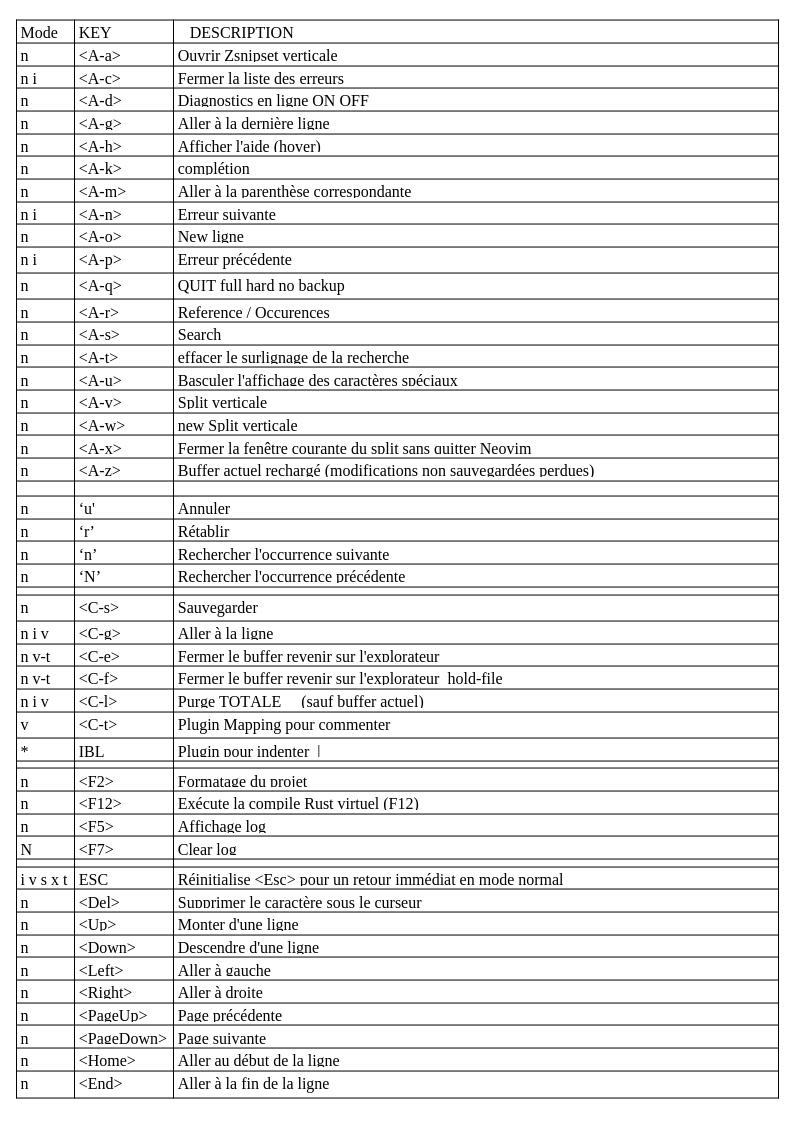
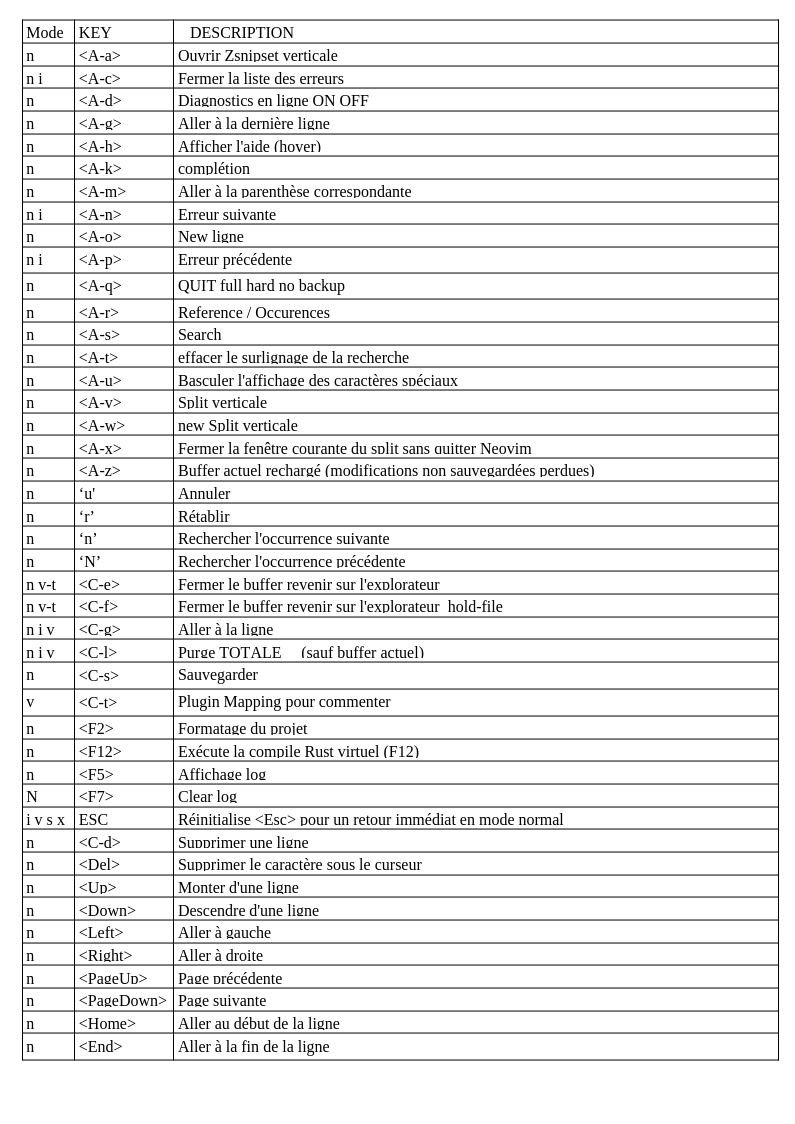
maj_20260330_17:20

diff --git a/README.md b/README.md
@@ -100,31 +100,32 @@ and the control startup function that checks the integrity of the project: first
 
 Perhaps I should have used plugins, but the goal was to do as little external intervention as possible and use Neovim as much as possible to have an editor that works with Rust. For those who want another LSP, just change the LSP part; the rest is the same.
 
-Translated with DeepL.com (free version)  
-<BR/><BR/>
+Translated with DeepL.com (free version)
+<BR/>
+<BR/>
 **2026-03-02 20:10**  udpate tabulation ,  goto definition, Reference
 <BR/>
-<BR/><BR/>
-**2026-03-07 22:30**  udpate full,  After all the tests, reset “init.lua” and minimum plugin distribution, introduce “fzf,” pipe Neovim sessions, and set up interactive Neovim formatting.<BR/>
-**2026-03-07 22:30** test: VTE and alacritty 
+<BR/>
+**2026-03-07 22:30**  udpate full,  After all the tests, reset “init.lua” and minimum plugin distribution, introduce “fzf,” pipe Neovim sessions, and set up interactive Neovim formatting.
+<BR/>
+<BR/>
+**2026-03-07 22:30** test: VTE and alacritty
 <BR/>
 <BR/>
 **2026-03-08 15:00** warning Arch  neovim    NVIM v0.11.6  LuaJIT 2.1.1772619647<BR/>
 update color and  plugin ibl  and capabilities.workspace
-<BR/>  
-<BR/> 
 <BR/>
-**2026-03-13 13:50** warning Arch  remove pacman  nvim-web-devicons  add pluggin nvim-tree/nvim-web-devicons<BR/>  
-<BR/>  
-<BR/> 
 <BR/>
-**2026-03-13 13:50** warning Arch  remove pacman  nvim-web-devicons  add pluggin nvim-tree/nvim-web-devicons<BR/>
-<BR/>  
-<BR/> 
+**2026-03-13 13:50** warning Arch  remove pacman  nvim-web-devicons  add pluggin nvim-tree/nvim-web-devicons
+<BR/>
+<BR/>
+**2026-03-13 13:50** warning Arch  remove pacman  nvim-web-devicons  add pluggin nvim-tree/nvim-web-devicons
+<BR/>
 <BR/>
 **2026-03-16 11:50** Improvements to the search function <A-r>
+<BR/>
+<BR/>
 **2026-03-16 18:00** ISorry, I accidentally missed <C-g> goto line: back in action 
-<BR/>  
 <BR/> 
 <BR/>
 **2026-03-17 01:15** <F12> restructuring, with index deletion notification 
@@ -133,7 +134,11 @@ update color and  plugin ibl  and capabilities.workspace
 **2026-03-23 22:25** search_word_interactive ( only ".rs" )   
 minor ->  key.map ('n','Ins') change color 
 <BR/>
-
+<BR/>
+**2026-03-30 17:10** add <C-d> delete line   
+clear <C-A..Z> function off default  
+minor -> <ESC> color notext 
+<BR/>
 
 
 <BR/>
